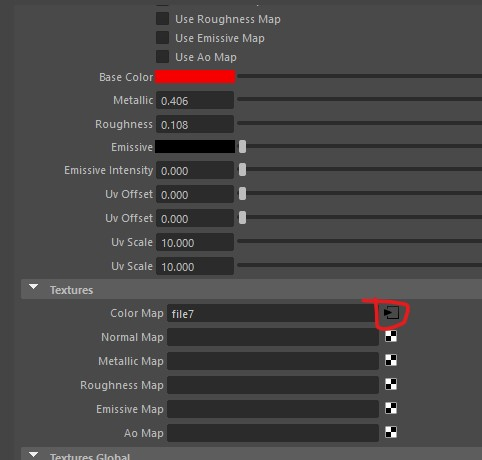
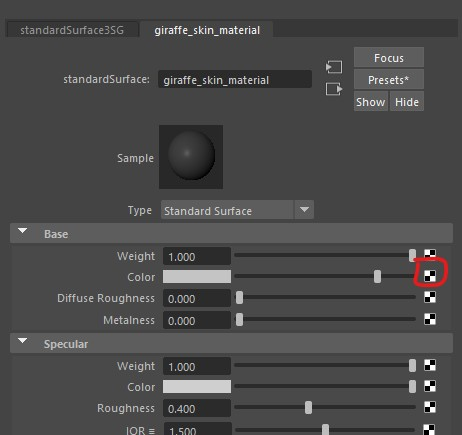
updated worksheet 3 to change sting ray to standard surface

diff --git a/worksheet_3_textures.md b/worksheet_3_textures.md
@@ -30,12 +30,12 @@
 
 ### Add a material
 
-- Maya has lots of materials we can choose. Different materials are useful for different outputs.We will ulimately be exporting our models for use in Unity and will therefore use StingRay PBR materials.
+
 - Select you cube, hold down the right mouse button and select 
 
 	![](images/worksheet_1/new_material.jpg)
 	
-- Select Maya > Stingray PBS
+- Select **Maya > Standard Surface**
 
 	![](images/worksheet_1/stingray_material.jpg)
 
@@ -44,13 +44,13 @@
 
 	![](images/worksheet_1/cube_material_1.jpg)
 
-- Change the colour of the material by double clicking on the box next to **Base Color**
+- Change the colour of the material by double clicking on the box next to **Color**
 
 - The cube in your scene should now have the colour, if it doesn't make sure the **textured** button is turned on in the viewport
 
 	![](images/worksheet_1/textured_button.jpg)
 
-- Experiment with the Roughness and Metallic sliders to see how they change the look of the cube.
+- Experiment with the **Diffuse Roughness** and **Metallic** sliders to see how they change the look of the cube.
 
 - If you loose your attribute editor panel, you can get it back by holding down the right mouse button on your object and selecting **Material Attributes**
 
@@ -58,30 +58,30 @@
 
 ## Adding an image map
 
-- Create another cube, move it next to the first and assign a new Stingray material just like we did above.
+- Create another cube, move it next to the first and assign a new **Standard Surface** material just like we did above.
 
 - This time, name it "giraffe_skin_material"
 - Instead of a colour, we want to use an image.
 - Download the giraffe print image from blackboard and save it in the same folder as your scene. this is really important as the image will be loaded in each time you open Maya. 
 
-- On the material attributes panel tick "use colour Map"
 
-	![](images/worksheet_1/use_colour_map.jpg)
+- Click the black and white button next to Color 
 
-- Click the black and white button next to Colour map to 
+	![](images/worksheet_1/change_colour_map.jpg)
 
-	![](images/worksheet_1/choose_colour_map.jpg)
+- The choose file
 
-- Then click on the folder icon an find the giraffe pattern you downloaded from blackboard earlier
+	![](images/worksheet_1/file.jpg)
+	
+- Then click on the folder icon and find the giraffe pattern you downloaded from blackboard earlier
+
+	![](images/worksheet_1/choose_folder.jpg)
 
 - You should now see the pattern applied to your cube
 
 	![](images/worksheet_1/giraffe_texture_applied.jpg)
 
-- You can change the scale and position of the texture by using the **Uv Scale** and **Uv offset** sliders. 
 
-	![](images/worksheet_1/texture_scale.jpg)
-	
 ## UV mapping
 
 ### Import model from Blackboard
@@ -198,11 +198,11 @@
 
 	![](images/worksheet_1/material_attributes.jpg)
 
-- Select **Maya > StingrayPBR** as before
+- Select **Maya > Standard Surface** as before
 
-- turn on **Use color map** and add the colour map you just created
+- Add the colour map you just created
 
-	![](images/worksheet_1/choose_colour_map.jpg)
+	![](images/worksheet_1/change_colour_map.jpg)
 
 ### Look at your applied texture
 
